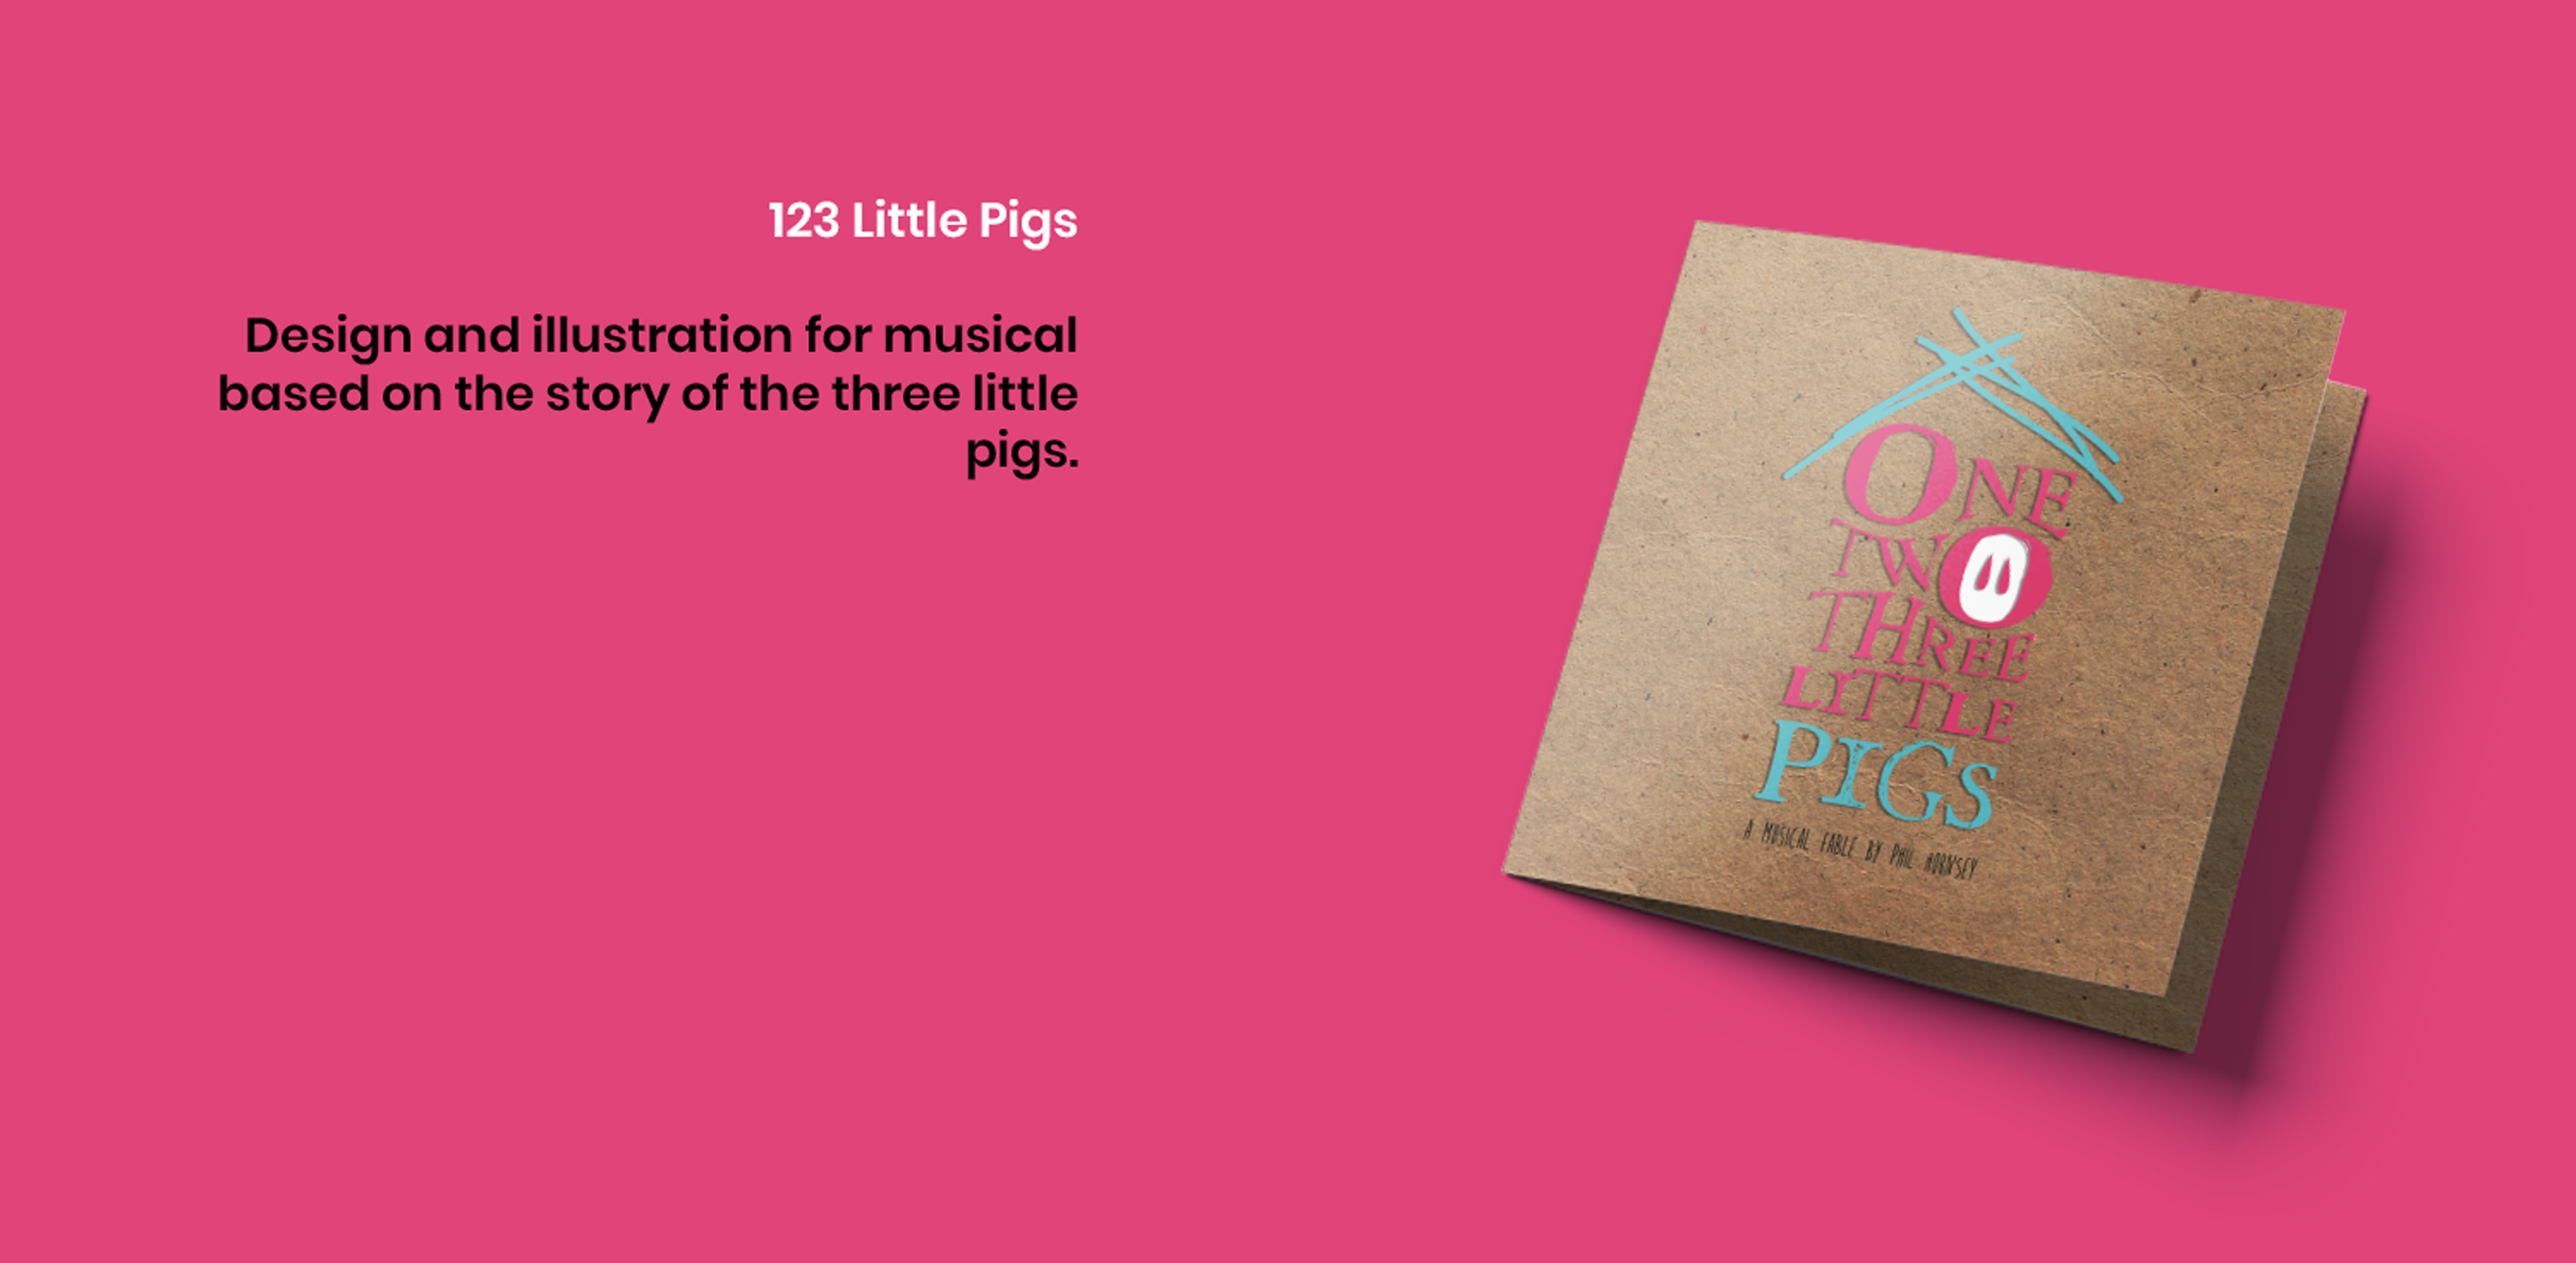
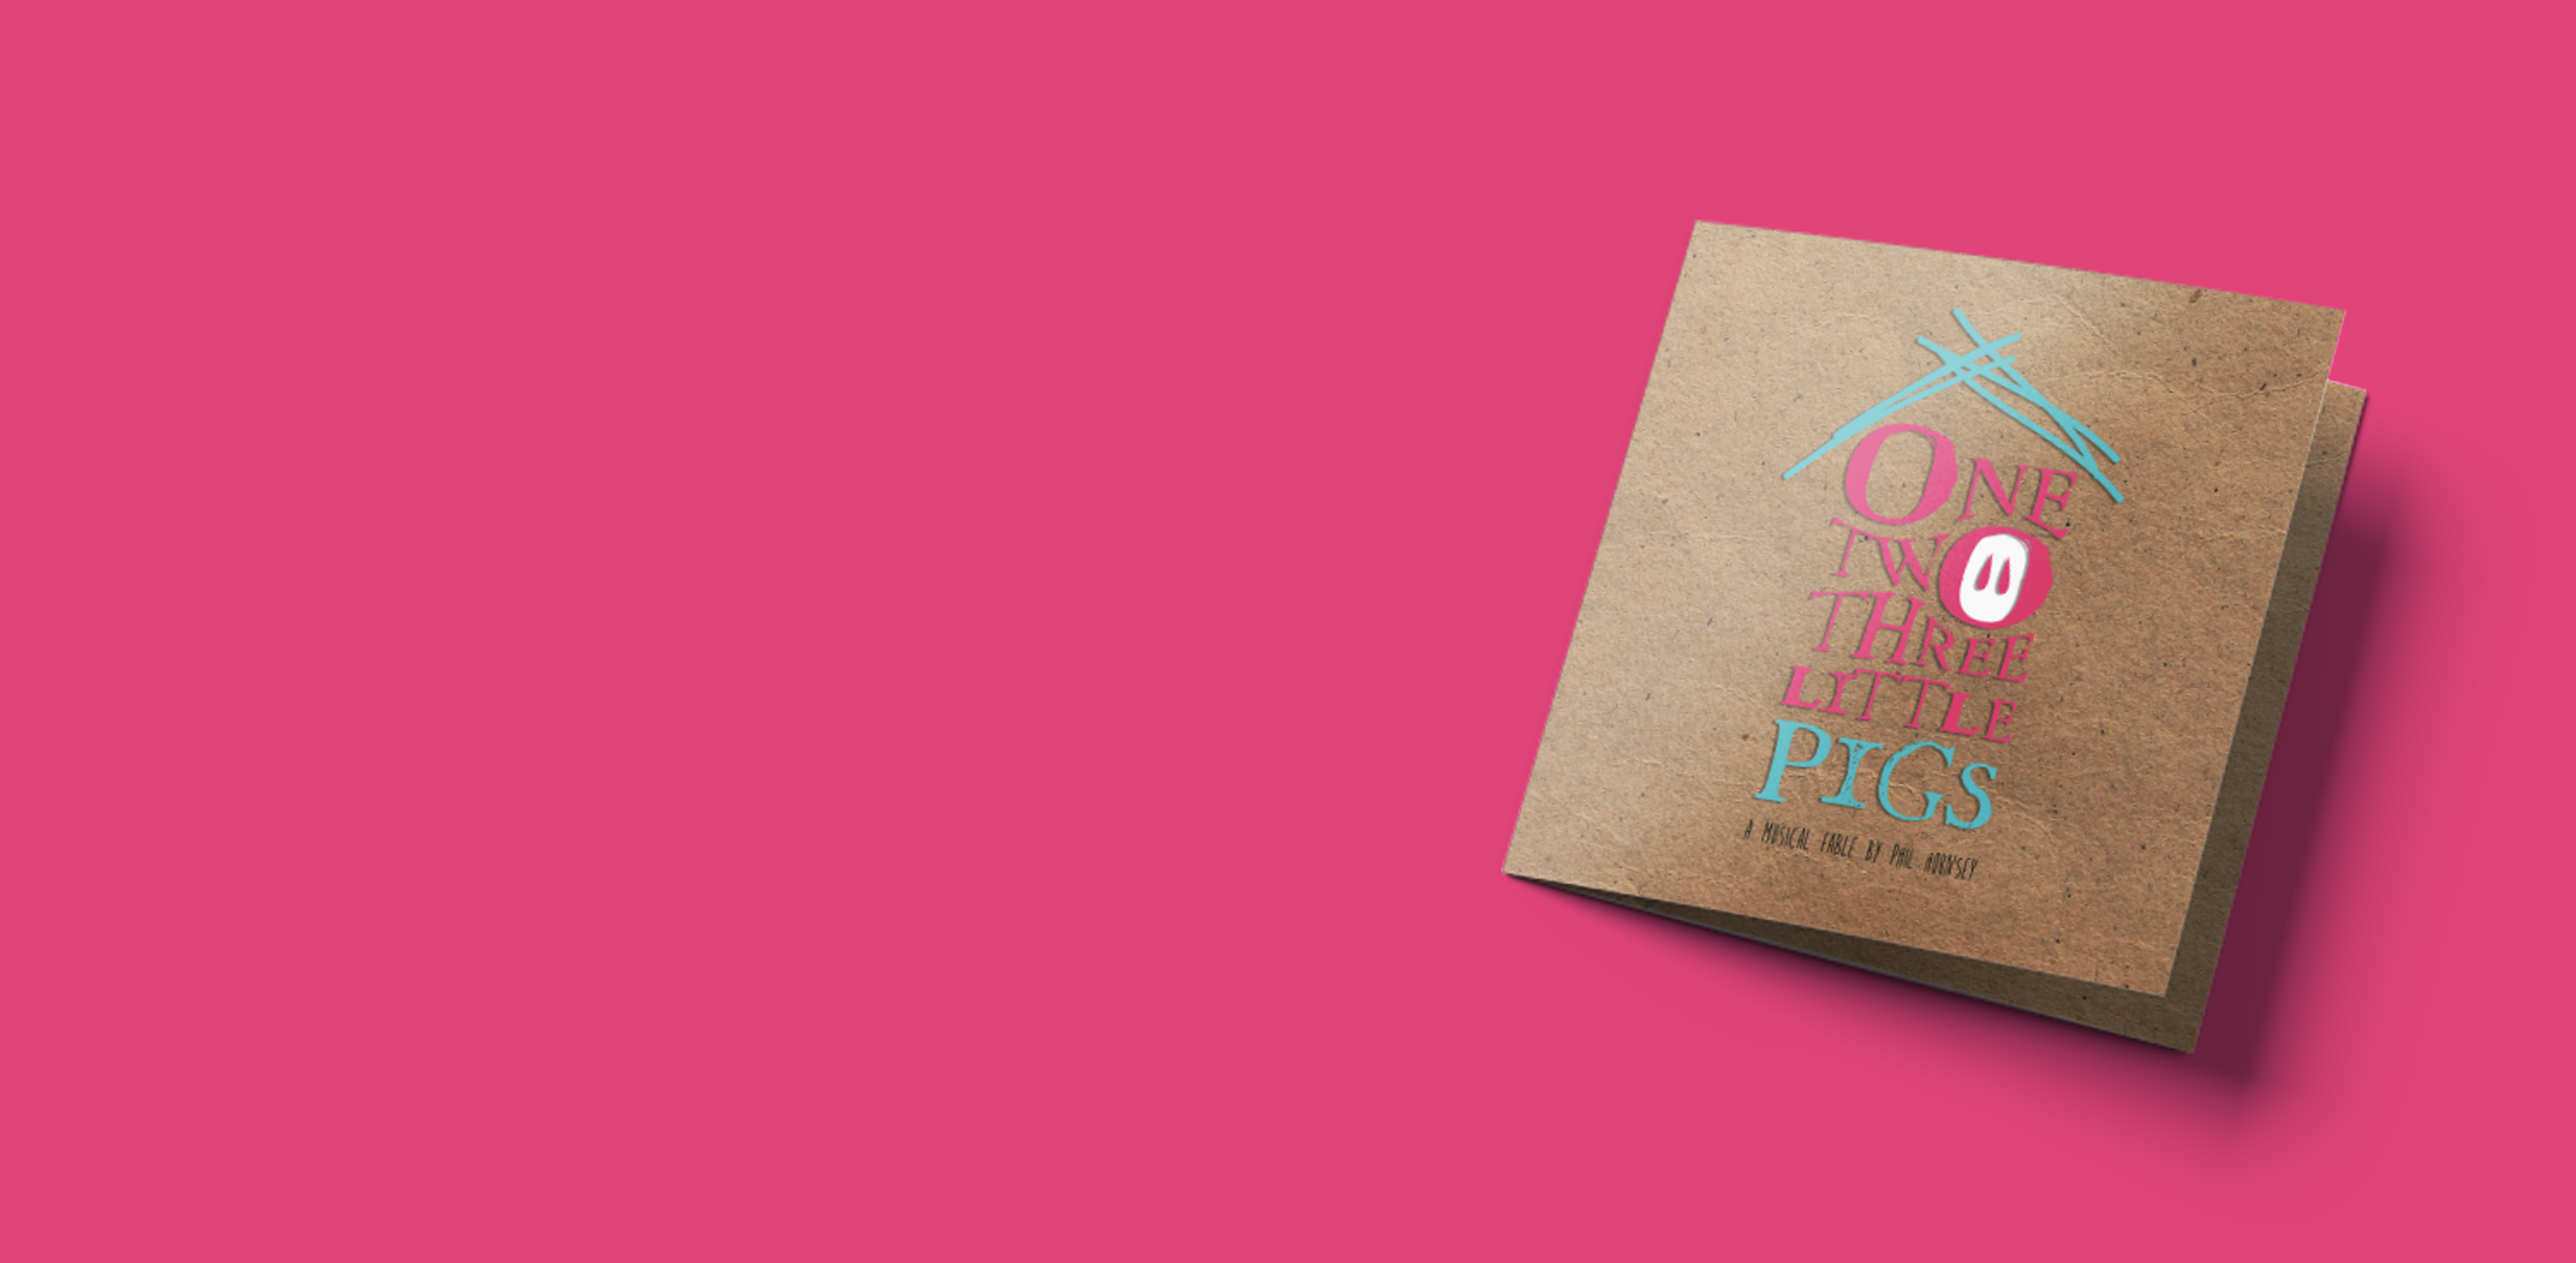
title alteration

Changed region(s): [[0.093, 0.25, 0.434, 0.375], [0.279, 0.1562, 0.434, 0.1875]]

diff --git a/toyotachr.html b/toyotachr.html
@@ -5,7 +5,7 @@
     <meta name="viewport" content="width=device-width, initial-scale=1, shrink-to-fit=no">
     <link rel="stylesheet" href="https://maxcdn.bootstrapcdn.com/bootstrap/4.0.0-beta.2/css/bootstrap.min.css" integrity="sha384-PsH8R72JQ3SOdhVi3uxftmaW6Vc51MKb0q5P2rRUpPvrszuE4W1povHYgTpBfshb" crossorigin="anonymous">
     <link rel="stylesheet" type="text/css" href="style.css">
-    <link href="https://fonts.googleapis.com/css?family=Poppins:400,600" rel="stylesheet">
+    <link href="https://fonts.googleapis.com/css?family=Poppins:400,500,600" rel="stylesheet">
     <link rel="stylesheet" href="https://unpkg.com/flickity@2/dist/flickity.min.css">
     <title>Toyota C-HR Launch</title>
     <style>
@@ -67,7 +67,13 @@
           <div class="row">
             <div class="col-xl-12 col-l-12">
               <div class="thumbnail-container">
-                <img class="thumbnail img-responsive" src="http://www.jodihunt.com/public/toyotachrcar1.png" alt="Toyota C-HR portfolio">
+                <img class="thumbnail img-responsive" src="./public/toyotachrcar1.png" alt="Toyota C-HR portfolio">
+                <div class="title-tchr">
+                  <h1 id="title-text">
+                    <span id="project-title">Toyota CH-R</span><br/><br/>
+                    Toyota CH-R launch event training <br/>materials: design and development <br/>for learning apps, puzzles and flipbook.
+                  </h1>
+              </div>
               </div>
             </div>
             <div class="col-xl-12 col-l-12">

diff --git a/super11.html b/super11.html
@@ -20,6 +20,12 @@
       }
     }
 
+    @media only screen and (max-width: 900px){
+      #title-text {
+        	font-size: 0.8rem;
+      }
+    }
+
     /* mobile media query */
       @media only screen and (max-width: 590px) {
         .super11laptop {
@@ -66,7 +72,13 @@
           <div class="row">
             <div class="col-xl-12 col-l-12">
               <div class="thumbnail-container">
-                <img class="thumbnail img-responsive" src="http://www.jodihunt.com/public/super11car1.png" alt="Super 11 portfolio">
+                <img class="thumbnail img-responsive" src="./public/super11car1.jpg" alt="Super 11 portfolio">
+                  <div class="title-super">
+                    <h1 id="title-text">
+                      <span id="project-title-11">Super 11</span><br/><br/>
+                      Design and photography to illustrate <br/>my Super 11 health foods.
+                    </h1>
+                  </div>
               </div>
             </div>
             <div class="col-xl-12 col-l-12">

diff --git a/style.css b/style.css
@@ -26,6 +26,7 @@
 	transform: translateY(-50%);
 	color: white;
 	font-size: 20px;
+	font-family: 'Poppins', sans-serif;
 }
 
 .row {
@@ -433,4 +434,65 @@ span {
 #webPage {
 	display: none;
 	text-align: center;
+}
+
+.title-tchr {
+	position: absolute;
+	top: 15%;
+	left: 6%;
+}
+
+#title-text {
+	font-weight: 600;
+	font-size: 1.5rem;
+	text-align: right;
+	font-family: 'Poppins', sans-serif;
+}
+
+#project-title {
+	color: white;
+}
+
+#project-title-11 {
+	color: rgb(255, 229, 79);
+}
+
+.title-super {
+	position: absolute;
+	top: 15%;
+	left: 5%;
+	color: white;
+}
+#super {
+	color: white;
+}
+
+.title-pigs {
+	position: absolute;
+	top: 16%;
+	left: 9%;
+}
+
+#project-title-mood {
+	color: rgb(229, 115, 46);
+}
+
+.title-mood {
+	position: absolute;
+	top: 16%;
+	left: 6%;
+	color: white;
+}
+
+.title-tel {
+	position: absolute;
+	top: 15%;
+	left: 7%;
+	color: black;
+}
+
+.title-bom {
+	position: absolute;
+	top: 15%;
+	left: 9%;
 }

diff --git a/bom.html b/bom.html
@@ -71,7 +71,13 @@
                 <div class="row">
                   <div class="col-xl-12 col-l-12">
                     <div class="thumbnail-container ">
-                      <img class="thumbnail section-class-name" src="http://www.jodihunt.com/public/bomcar1.png" alt="Birmingham Open Media portfolio">
+                      <img class="thumbnail section-class-name" src="./public/bomcar1.png" alt="Birmingham Open Media portfolio">
+                        <div class="title-bom">
+                          <h1 id="title-text">
+                            <span id="project-title">Birmingham Open Media</span><br/><br/>
+                            Logo, brand and identity design for<br/>collaborative art, technology and<br/>science space.
+                          </h1>
+                        </div>
                     </div>
                   </div>
                 </div>

diff --git a/toyotalcvelearning.html b/toyotalcvelearning.html
@@ -68,7 +68,13 @@
           <div class="row">
             <div class="col-xl-12 col-l-12">
               <div class="thumbnail-container">
-                <img class="thumbnail img-responsive" src="http://www.jodihunt.com/public/toyotalcvelearningcar1.png" alt="Toyota LCV eLearning portfolio">
+                <img class="thumbnail img-responsive" src="./public/toyotalcvelearningcar1.png" alt="Toyota LCV eLearning portfolio">
+                  <div class="title-tel">
+                    <h1 id="title-text">
+                      <span id="project-title">Toyota LCV eLearning</span><br/><br/>
+                      Design, illustration and development<br/> for Toyota LCV eLearning course
+                    </h1>
+                  </div>
               </div>
             </div>
             <div class="col-xl-12 col-l-12">

diff --git a/123littlepigs.html b/123littlepigs.html
@@ -66,7 +66,13 @@
           <div class="row">
             <div class="col-xl-12 col-l-12">
               <div class="thumbnail-container">
-                <img class="thumbnail img-responsive" src="http://www.jodihunt.com/public/123littlepigs1car1.png" alt="123 Little Pigs portfolio">
+                <img class="thumbnail img-responsive" src="./public/123littlepigs1car1.png" alt="123 Little Pigs portfolio">
+                <div class="title-pigs">
+                  <h1 id="title-text">
+                    <span id="project-title">123 Little Pigs</span><br/><br/>
+                    Design and illustration for musical<br/> based on the story of the three little<br/>pigs.
+                  </h1>
+              </div>
               </div>
             </div>
             <div class="col-xl-12 col-l-12">

diff --git a/moodie.html b/moodie.html
@@ -69,7 +69,13 @@
           <div class="row">
             <div class="col-xl-12 col-l-12">
               <div class="thumbnail-container">
-                <img class="thumbnail img-responsive" src="http://www.jodihunt.com/public/moodiecar1.png" alt="Moodie portfolio">
+                <img class="thumbnail img-responsive" src="./public/moodiecar1.png" alt="Moodie portfolio">
+                  <div class="title-mood">
+                    <h1 id="title-text">
+                      <span id="project-title-mood">Moodie</span><br/><br/>
+                      Design concept and execution for<br/>food education campaign.
+                    </h1>
+                  </div>
               </div>
             </div>
             <div class="col-xl-12 col-l-12">
